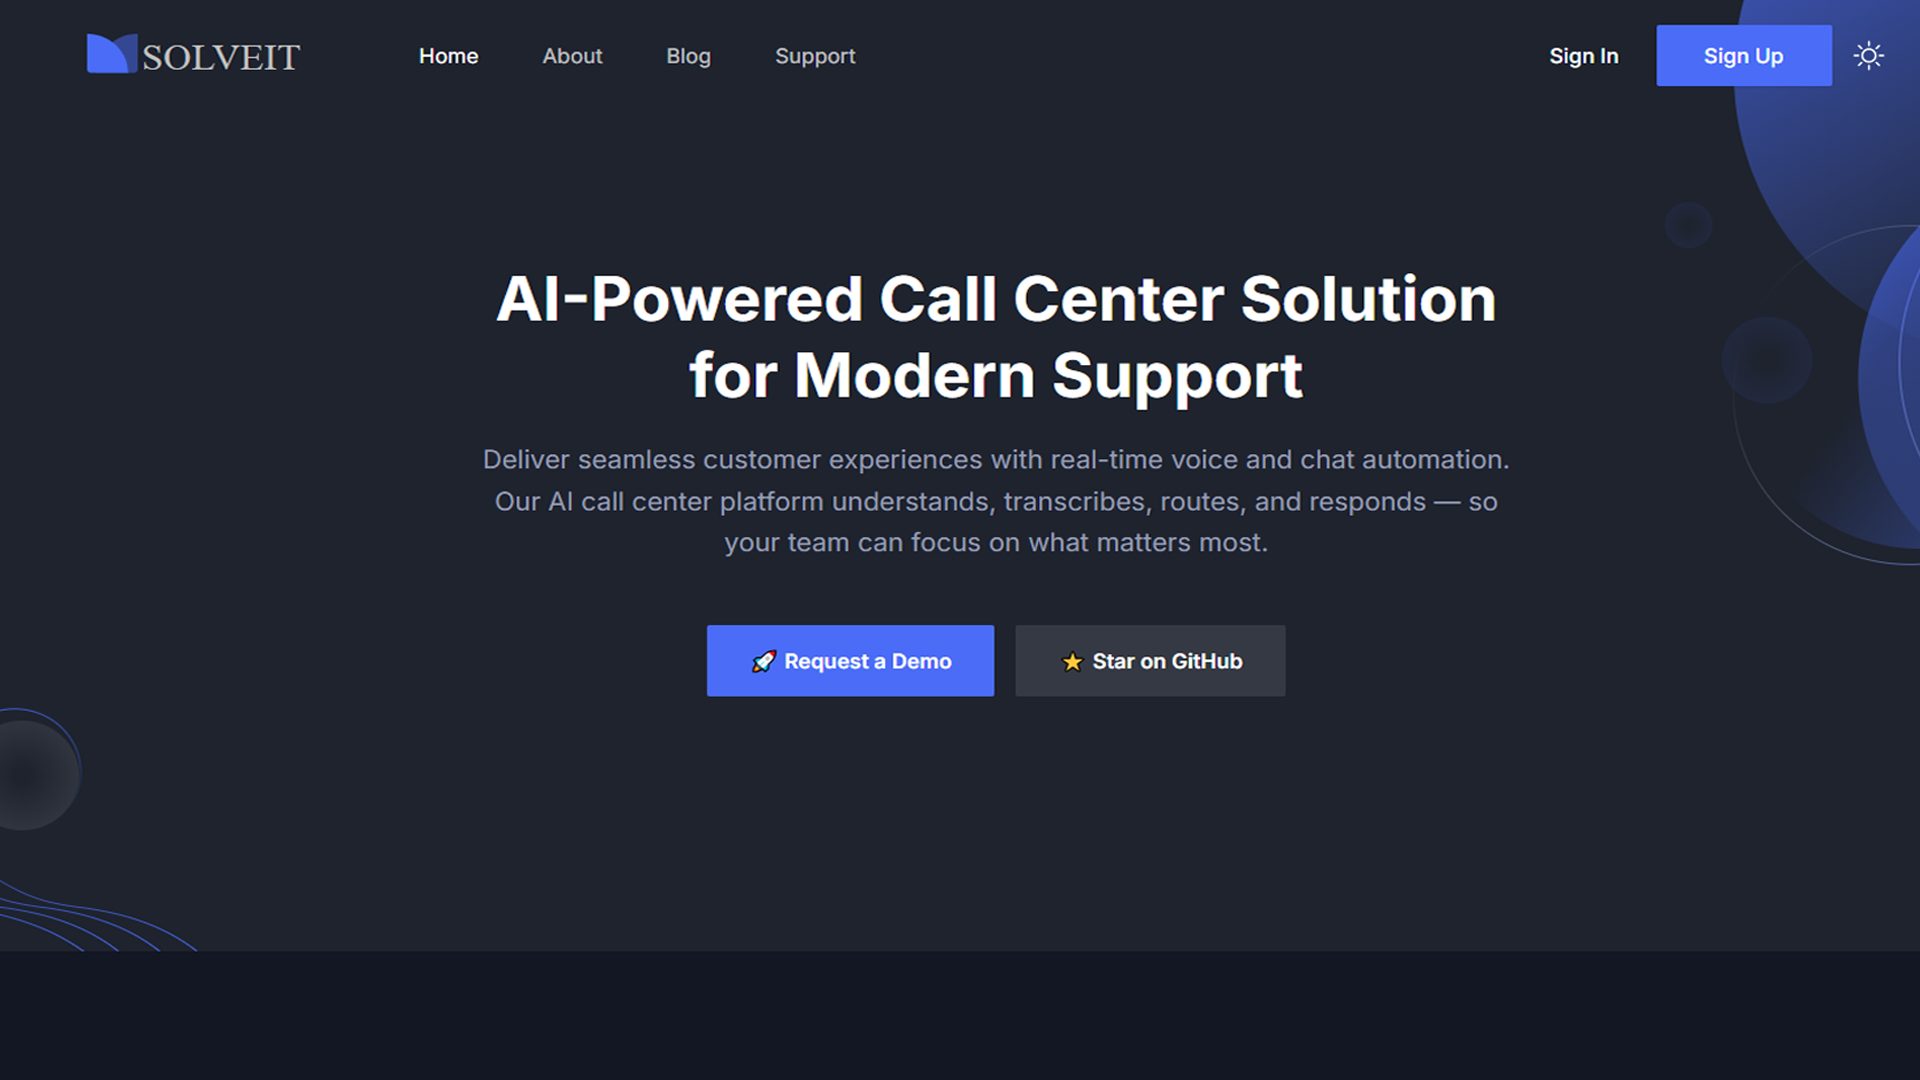
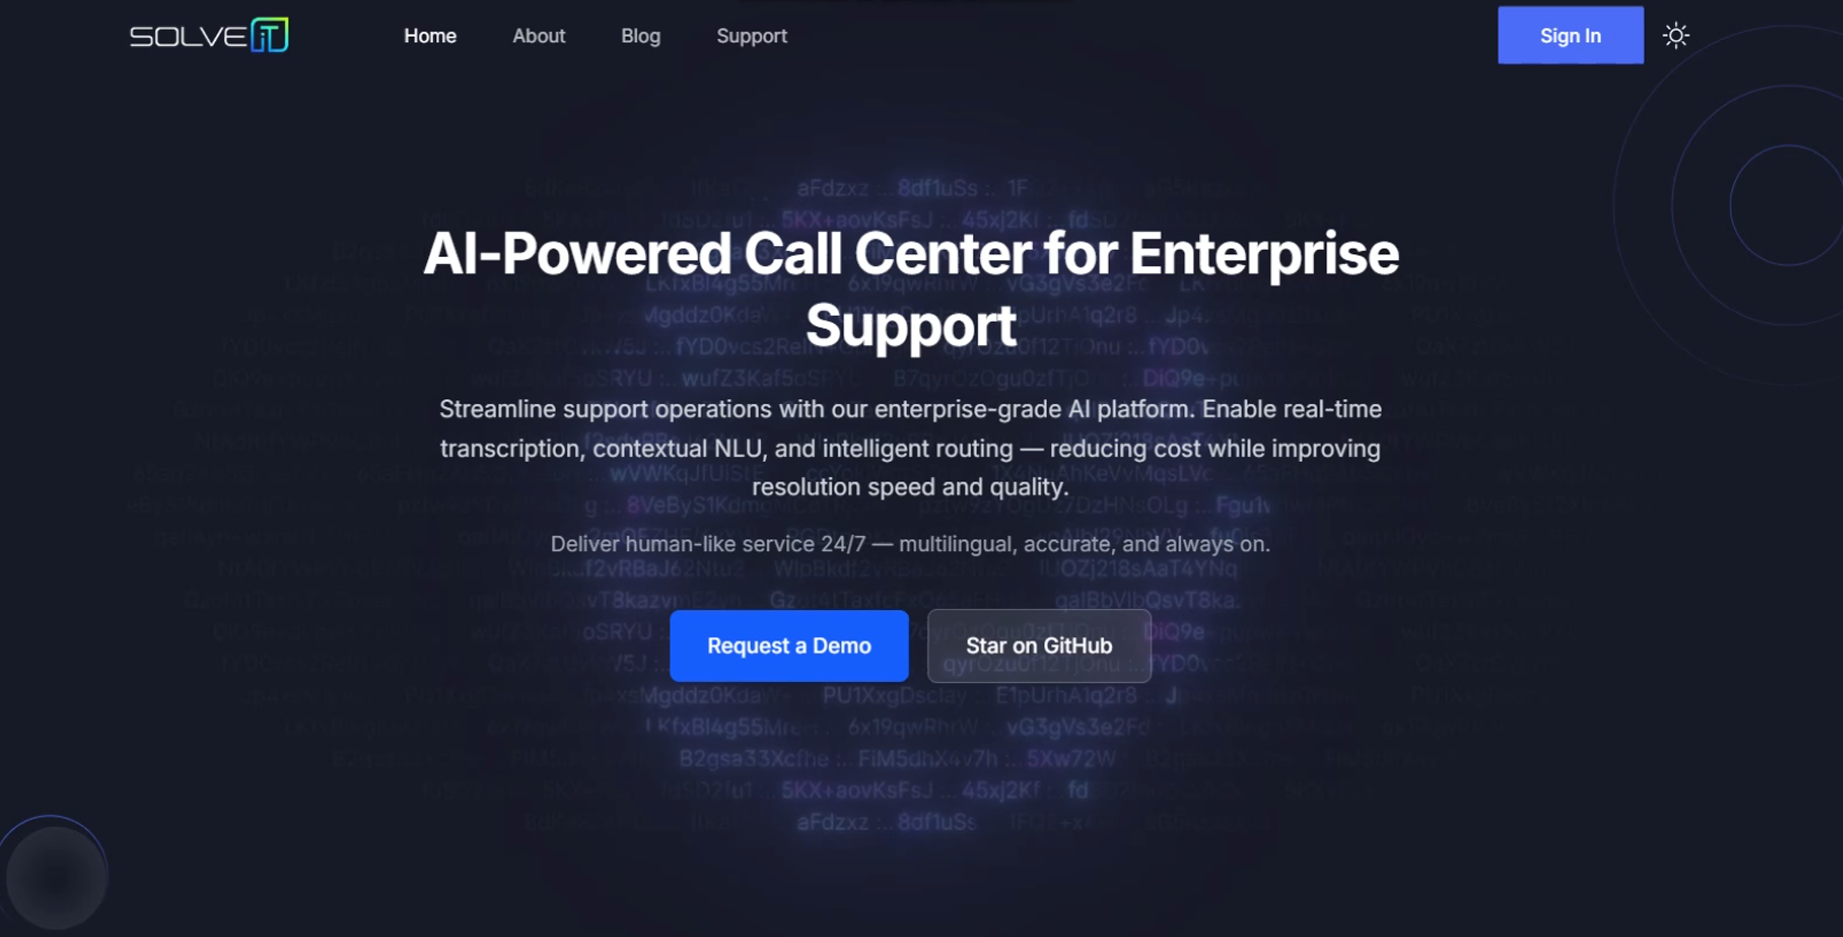
update
dd

diff --git a/constants/index.ts b/constants/index.ts
@@ -50,11 +50,9 @@ export const MY_SKILLS = [
       "Flask",
       "Django",
       "Node.js",
-      "Express.js",
       "RESTful APIs",
       "GraphQL",
       "Jakarta EE",
-      "Laravel",
     ],
   },
   {
@@ -102,78 +100,89 @@ export const MY_SKILLS = [
 export const BLOGS = [
   {
     title: "How I Built My AI-Powered Trading Assistant",
-    content: "Step-by-step breakdown of building a real-time trading bot using reinforcement learning, WebSockets, and market APIs.",
+    content:
+      "A detailed walkthrough of designing, training, and deploying a fully automated trading assistant using reinforcement learning, real-time data pipelines, and broker APIs. Covers market data ingestion using WebSockets and Kafka, stateful order book tracking, and strategy optimization using Proximal Policy Optimization (PPO) with Stable Baselines3. Includes modular signal generation pipelines, risk control layers, and execution via broker APIs like MEXC and OKX. Real-time performance is visualized through a React + Tailwind dashboard. The system is containerized with Docker, monitored with Prometheus + Grafana, and deployed using AWS ECS Fargate. Model lifecycle is tracked using MLflow and managed with Prefect for pipeline orchestration.",
     date: "2024-12-01",
     mark: 5,
   },
   {
     title: "Scaling FastAPI on AWS with ECS and CI/CD",
-    content: "Learn how to deploy FastAPI apps using Docker, GitHub Actions, and AWS ECS with full scalability and monitoring.",
+    content:
+      "Comprehensive guide on building production-grade FastAPI applications and deploying them at scale using AWS ECS (Fargate), Docker, and GitHub Actions. Covers best practices for container security, API throttling, load balancing with AWS ALB, and horizontal scaling with ECS Service Auto Scaling. Introduces GitHub Actions workflows for automated testing, linting, image building, and zero-downtime ECS blue/green deployments using AWS CodeDeploy. Discusses configuration management with AWS Secrets Manager, logging with CloudWatch, and distributed tracing with OpenTelemetry. Includes optional monitoring stack with Prometheus + Grafana and real-world techniques for graceful shutdowns, health checks, and debugging in production environments.",
     date: "2024-11-15",
     mark: 4,
   },
+  
   {
-    title: "Building a Multilingual RAG Chatbot with Pinecone & Google PaLM 2",
-    content: "Tutorial on how to build a Retrieval-Augmented Generation (RAG) chatbot that supports Arabic and English queries.",
+    title: "Building a Multilingual RAG Chatbot with Pinecone & Gemini 1.5",
+    content:
+      "An in-depth guide to building a production-grade Retrieval-Augmented Generation (RAG) chatbot that supports both Arabic and English. Covers document preprocessing with LangChain, multilingual embedding using BGE-M3, semantic indexing via Pinecone, and reranking with HuggingFace cross-encoders. Integrates Gemini 1.5 Pro for context-aware response generation, with dynamic prompt templating and fallback routing. The system includes a React + Tailwind frontend, a FastAPI backend, and features such as session memory, user feedback capture, and real-time context injection. Includes full deployment using Docker, Uvicorn with Gunicorn, and CI/CD via GitHub Actions.",
     date: "2024-10-28",
     mark: 5,
   },
   {
     title: "Real-Time Audio Transcription with FasterWhisper & WebSockets",
-    content: "A guide to implementing live transcription in React using FasterWhisper and a FastAPI backend.",
-    date: "2024-10-05",
+    content:
+      "A step-by-step tutorial for implementing real-time audio transcription using FasterWhisper for low-latency speech-to-text and FastAPI with WebSockets for bi-directional streaming. Demonstrates audio chunking in React, backend buffering with asyncio, and transcript streaming to the UI. Covers speaker diarization, silence trimming, and confidence scoring. Optimized for edge inference using quantized models on CPU/GPU with PyTorch, and includes optional integration with multilingual intent classifiers and token-authenticated WebSocket connections. Ideal for AI-powered call centers and meeting assistants.",
+    date: "2025-04-05",
     mark: 4,
   },
   {
     title: "Advanced Prompt Engineering with OpenAI Functions",
-    content: "Techniques for chaining, memory, and control flow in OpenAI chat completions using function calling.",
+    content:
+      "A deep dive into advanced prompt design patterns using OpenAI’s function calling and tool-use capabilities. Explores dynamic role-switching, multi-step prompt chaining, conditional logic execution, and memory structuring using `tool_choice`, `function_call`, and `metadata` fields in GPT-4o. Includes techniques for agent-style orchestration using LangChain and CrewAI, multi-modal prompt design with image and audio inputs, and best practices for reducing hallucination while maintaining output control. Covers both REST and OpenAI SDK usage for production deployment.",
     date: "2024-09-17",
     mark: 5,
   },
   {
     title: "How to Fine-Tune LLMs on Your Custom Dataset",
-    content: "Walkthrough of LLaMA and Mistral fine-tuning using Hugging Face and LoRA adapters on limited GPU resources.",
+    content:
+      "Comprehensive walkthrough of fine-tuning LLMs like LLaMA 3 and Mistral using Hugging Face Transformers with LoRA and QLoRA adapters. Focuses on training with limited GPU resources (e.g. single A100/RTX 4090) using techniques like 8-bit quantization, Flash Attention 2, and gradient checkpointing. Covers dataset preparation with DPO/ChatML formats, tokenizer alignment, inference benchmarking, and PEFT integration for low-latency deployment. Also discusses offline training environments and best practices for evaluating safety, coherence, and performance with LLM-as-a-judge frameworks.",
     date: "2024-09-01",
+    mark: 5,
+  },  
+  {
+    title: "Production-Grade Vector Search: FAISS vs Pinecone vs Weaviate",
+    content:
+      "An in-depth comparison of the leading vector databases used for semantic search in AI-driven applications. Evaluates FAISS (open-source, GPU-optimized), Pinecone (fully managed, real-time updates), and Weaviate (schema-aware with hybrid search) across metrics like latency, scalability, indexing speed, multi-tenancy, cost-efficiency, and compatibility with embeddings (OpenAI, BGE, Cohere). Includes benchmarks for multilingual retrieval with BGE-M3, GPU-accelerated recall with FAISS+IVFPQ, and production deployment via Docker/K8s. Concludes with architecture recommendations based on use cases like RAG chatbots, document Q&A, and personalized search.",
+    date: "2024-08-20",
     mark: 5,
   },
   {
-    title: "Production-Grade Vector Search: FAISS vs Pinecone vs Weaviate",
-    content: "Comparison of top vector databases for fast semantic search in modern AI applications.",
-    date: "2024-08-20",
-    mark: 3,
-  },
-  {
     title: "LangChain vs CrewAI: Which Agent Framework Should You Use?",
-    content: "A practical guide to building LLM agents with memory, tools, and human handoff using modern frameworks.",
+    content:
+      "A hands-on comparison of LangChain and CrewAI for building autonomous LLM agents with memory, function calling, and multi-role coordination. Breaks down core primitives like tools, memory types (buffer, summary, entity), and agent types (reactive vs multi-step planning). Highlights CrewAI’s structured agent collaboration, task delegation, and built-in human handoff via interrupt policies. Benchmarks include latency per task, tool-use success rate, and context retention accuracy. Ideal for developers building RAG pipelines, AI copilots, or multi-agent research environments.",
     date: "2024-08-10",
-    mark: 4,
+    mark: 5
   }
+  
 ];
 
 
 export const PROJECTS = [
   {
-    title: "Modern Next.js 14 Portfolio",
+    title: "AI Powered Call Center Solution",
     description:
-      'Embark on a journey through my professional evolution with the "Modern Next.js Portfolio" - a dynamic showcase of my skills, experiences, and passion for web development. Crafted with precision and powered by Next.js, this portfolio is more than just a static display; it\'s an immersive experience that reflects the cutting edge of modern web technologies.',
+    "Led the full-stack development of a real-time AI-powered call center platform using Next.js (frontend), Django (admin & auth), and FastAPI (AI services). Architected and implemented core features including real-time transcription with FasterWhisper, intelligent query handling via Google LLM, semantic search with Pinecone vector DB, and RAG-based pipelines for accurate AI responses. Developed a smart escalation mechanism for unresolved queries and enabled live WebSocket communication. The system supports multilingual interaction (English and Arabic) and includes a modular admin dashboard for service management Builted in a month. MVP stage.",
     image: "/projects/project-1.png",
     link: "https://example.com",
   },
   {
-    title: "Interactive Cards Portfolio",
+    title: "ChatLLM Teams",
     description:
-      'Step into the extraordinary world of my professional journey through the "Interactive Cards Portfolio" - an innovative and visually captivating platform that redefines the traditional portfolio experience. Ditching the conventional static layout, this portfolio leverages interactive cards to showcase my skills, projects, and personality in an engaging and dynamic manner.',
+    "Architected and implemented the backend for a multi-user enterprise conversational assistant platform leveraging Abacus.AI. Focused on real-time LLM orchestration, I developed token-based access control, dynamic memory context handling, and multi-agent prompt chaining logic. The platform supports secure, scalable collaboration across teams, enabling contextual AI-driven conversations, agent coordination, and persistent user sessions. My work emphasized reliability, latency optimization, and modular design for enterprise deployment. Built in 7 month, Real Production",
     image: "/projects/project-2.png",
-    link: "https://example.com",
+    link: "https://chatllm.abacus.ai/",
   },
   {
-    title: "Space Themed Website",
+    title: "Real Estate Property Finder",
     description:
-      'Embark on an interstellar journey with my "Space Themed Website", a mesmerizing space-themed website that invites you to explore the cosmic wonders beyond our world. Immerse yourself in an awe-inspiring digital experience that blends cutting-edge design with the mysteries of the universe.',
+      "Independently developed a full-stack, space-themed real estate discovery platform using Next.js for the frontend and Django for the backend and admin panel. I implemented a custom vector search engine for intelligent property matching based on semantic similarity, integrated geolocation filtering, and built LLM-powered modules for dynamic property description generation. The platform also features a responsive UI, user authentication, and an optimized deployment pipeline designed for performance and scalability in production environments. Built in 4 month, Real Production",
     image: "/projects/project-3.png",
-    link: "https://example.com",
+    link: "https://www.propertyfinder.ae",
   },
 ] as const;
+
 
 export const FOOTER_DATA = [
   {
@@ -182,17 +191,17 @@ export const FOOTER_DATA = [
       {
         name: "YouTube",
         icon: FaYoutube,
-        link: "https://youtube.com",
+        link: "",
       },
       {
         name: "GitHub",
         icon: RxGithubLogo,
-        link: "https://github.com",
+        link: "https://github.com/marcio-grazianni",
       },
       {
         name: "Discord",
         icon: RxDiscordLogo,
-        link: "https://discord.com",
+        link: "",
       },
     ],
   },
@@ -202,17 +211,17 @@ export const FOOTER_DATA = [
       {
         name: "Instagram",
         icon: RxInstagramLogo,
-        link: "https://instagram.com",
+        link: "",
       },
       {
         name: "Twitter",
         icon: RxTwitterLogo,
-        link: "https://twitter.com",
+        link: "",
       },
       {
         name: "Linkedin",
         icon: RxLinkedinLogo,
-        link: "https://linkedin.com",
+        link: "https://www.linkedin.com/in/marcio-grazianni-41910665/",
       },
     ],
   },
@@ -222,17 +231,17 @@ export const FOOTER_DATA = [
       {
         name: "Become Sponsor",
         icon: null,
-        link: "https://youtube.com",
+        link: "",
       },
       {
         name: "Learning about me",
         icon: null,
-        link: "https://example.com",
+        link: "",
       },
       {
         name: "Contact Me",
         icon: null,
-        link: "mailto:contact@example.com",
+        link: "marcio.grazianni05@gmail.com",
       },
     ],
   },

diff --git a/components/sub/hero-content.tsx b/components/sub/hero-content.tsx
@@ -46,10 +46,7 @@ export const HeroContent = () => {
           variants={slideInFromLeft(0.8)}
           className="text-lg text-gray-400 my-5 max-w-[900px]"
         >
-          With 10+ years of experience in AI, NLP, computer vision, and full-stack development, I specialize in delivering intelligent systems
-          using Python, FastAPI, React, and cloud platforms. From call center
-          automation to AI-powered real estate platforms, my work transforms
-          complexity into elegant, scalable products.
+          Senior AI & Python engineer with expertise in machine learning, deep learning, and end-to-end AI systems. Specialized in building and deploying production-grade ML workflows, data pipelines, and backend services using Python, with a long history of Fullstack capabilities. Proficient in integrating AI models into scalable systems, automating intelligent processes, optimizing performance, and building robust, scalable websites and web applications using modern frameworks including React and Next.js, alongside Python web frameworks such as Django, Flask, and FastAPI.
         </motion.p>
 
         <motion.a

diff --git a/components/main/projects.tsx b/components/main/projects.tsx
@@ -8,7 +8,7 @@ export const Projects = () => {
       className="flex flex-col items-center justify-center py-20"
     >
       <h1 className="text-[40px] font-semibold text-transparent bg-clip-text bg-gradient-to-r from-purple-500 to-cyan-500 py-20">
-        My Projects
+      Most Successful Projects
       </h1>
       <div className="h-full w-full flex flex-col md:flex-row gap-10 px-10">
         {PROJECTS.map((project) => (
